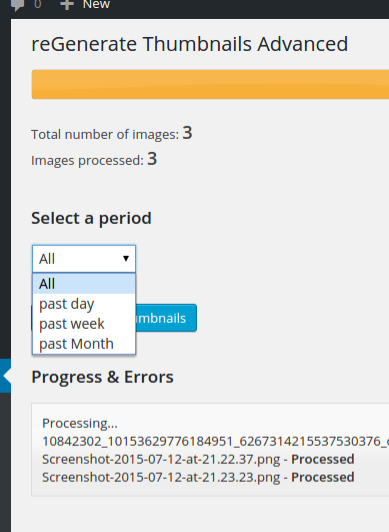
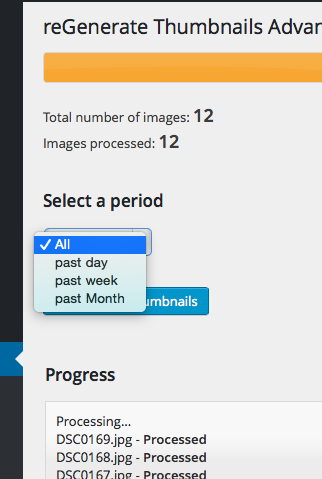
v 0.8.2.3 added refreshed images

diff --git a/script.js b/script.js
@@ -18,6 +18,7 @@ jQuery(document).ready(function ($) {
     var rta_butt = $('.button.RTA');
     if (rta_butt[0]) {
         var logstatus = $('#rta .logstatus');
+        var errstatus = $('#rta .errors');
         
         rta_butt.click(submit_ajax_call);
         //
@@ -25,8 +26,8 @@ jQuery(document).ready(function ($) {
         //
         function submit_ajax_call() {
             logstatus.html('Processing...');
+            errstatus.html('Processing...');
             err_arr=[];
-            errors_obj.html('');
             var period = $('#rta_period');
             //    First Time Request
             loop_ajax_request('general', 0, -1, period.val());

diff --git a/style.css b/style.css
@@ -27,7 +27,7 @@
 #rta .errors,
 #rta .logstatus{
     float:left;
-    width:46%;
+    width:96%;
     padding:10px;
     margin:0px 1% 0 0;
     text-align: left;
@@ -49,4 +49,7 @@
     color:red;
     text-align: center;
     margin:140px 0 100px 0;
+}#rta .wrap{
+    float:left;
+    width:46%;
 }

diff --git a/regenerate-thumbnails-advanced.php b/regenerate-thumbnails-advanced.php
@@ -3,7 +3,7 @@
   Plugin Name: reGenerate Thumbnails - advanced
   Plugin URI: http://turcuciprian.com
   Description: A plugin that makes regenerating thumbnails even easier than before and more flexible.
-  Version: 0.8.2.2
+  Version: 0.8.2.3
   Author: turcuciprian
   Author URI: http://turcuciprian.com
   License: GPLv2 or later
@@ -241,16 +241,21 @@ class cc {
         $content .= sprintf('</select>');
         $content .= sprintf('<p class="submit">'
                 . '<button class="button button-primary RTA">Regenerate Thumbnails</button>'
-                . '<h3>Progress & Errors</h3>'
+                . '<div class="wrap">'
+                . '<h3>Progress</h3>'
                 . '<div class="logstatus ui-widget-content">'
                 . 'Nothing processed yet'
+                . '</div>'
                 . '</div>'//where the errors show
+                . '<div class="wrap">'
+                . '<h3> Errors</h3>'
                 . '<div class="errors ui-widget-content">'
                 . 'No errors to display yet.'
                 . '</div>'//where the errors show
                 . '</p>');
 
         $content .= sprintf('</div>'
+                . '</div>'
                 . '</div>'
                 . '<!-- Js Works End -->'
                 . '<!--GTA wrap END -->');
